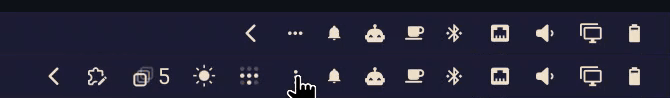
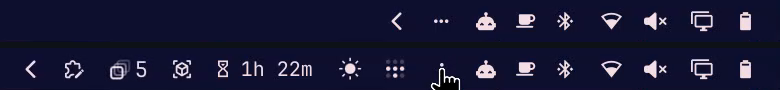
docs(figures): re-shoot the hover take on 0.6.0
The hover recording predated the slide of decision 0023, so the tray
jumped where it now slides. The new take shows it on open and on fold,
and bar-states.png and preview.png are cut from it again. The pocket
holds six widgets now, which the caption under the stills says.

diff --git a/README.md b/README.md
@@ -11,7 +11,7 @@
 
 </div>
 
-![The pocket opening as the pointer arrives, and folding up again when it leaves](docs/pocket-demo.gif)
+![The pocket opening as the pointer arrives, the widgets beside it sliding aside, and folding up again when it leaves](docs/pocket-demo.gif)
 
 ## What this is
 
@@ -32,7 +32,7 @@ desktop can tell that they are hidden; the one thing that can is
 
 ![The same bar twice: collapsed behind one mark, and fanned back out with the pointer on it](docs/bar-states.png)
 
-<sup>The same bar a moment apart. Four widgets sit behind the three dots; the
+<sup>The same bar a moment apart. Six widgets sit behind the three dots; the
 pointer is what brings them back. Everything to the right of the mark stays
 exactly where it was.</sup>
 
